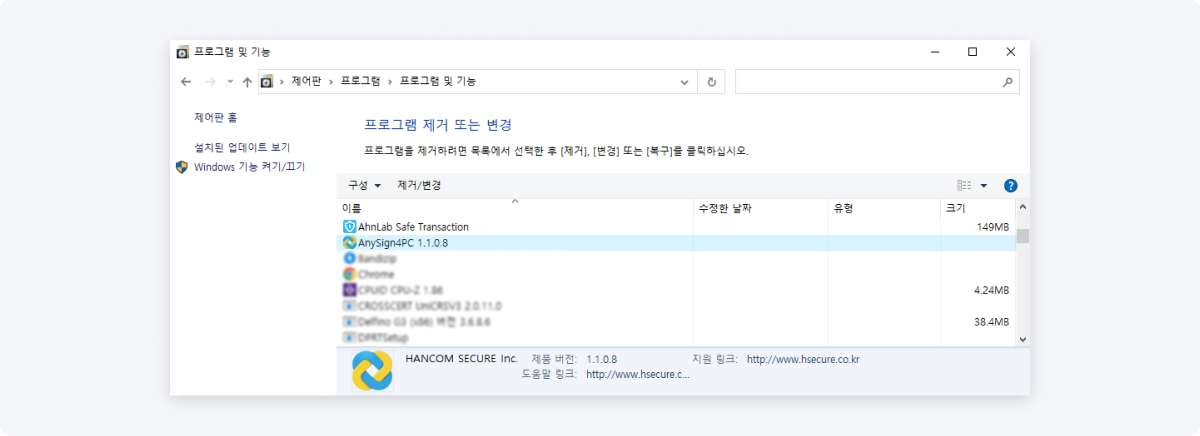
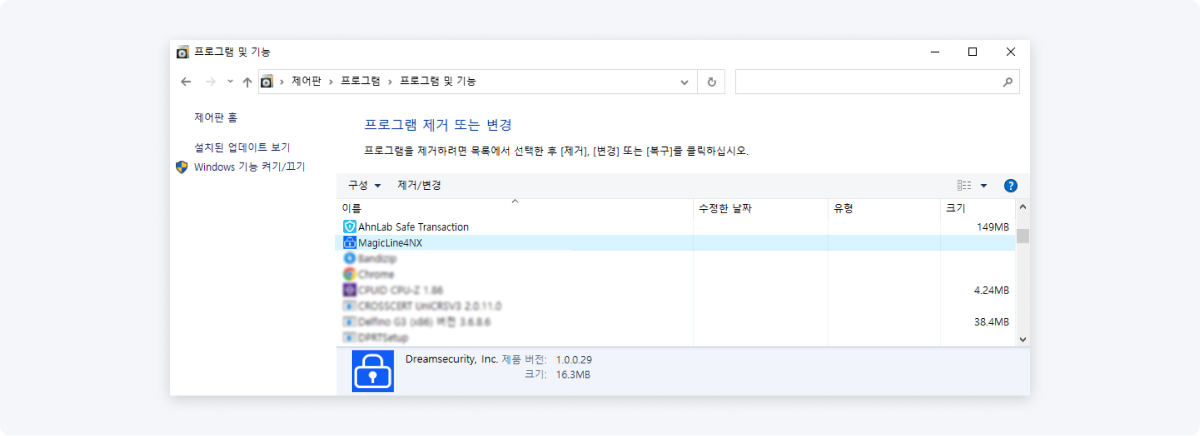
[DT-168] PC-프로그램 설치/삭제 안내 이미지 교체

Changed region(s): [[0.2775, 0.805, 0.74, 0.9243], [0.2775, 0.5367, 0.37, 0.5665]]

diff --git a/src/views/uiGuide/GuideIndex.vue b/src/views/uiGuide/GuideIndex.vue
@@ -689,6 +689,10 @@ const datas = () => [
             date: '2023.08.16',
             text: '이미지 교체',
           },
+          {
+            date: '2023.09.13',
+            text: '공동인증서 프로그램 설치 이미지 교체',
+          },
         ],
       },
       {
@@ -704,6 +708,10 @@ const datas = () => [
           {
             date: '2023.08.07',
             text: '줄바꿈 수정 및 이미지 교체',
+          },
+          {
+            date: '2023.09.13',
+            text: '공동인증서 프로그램 삭제 이미지 교체',
           },
         ],
       },
